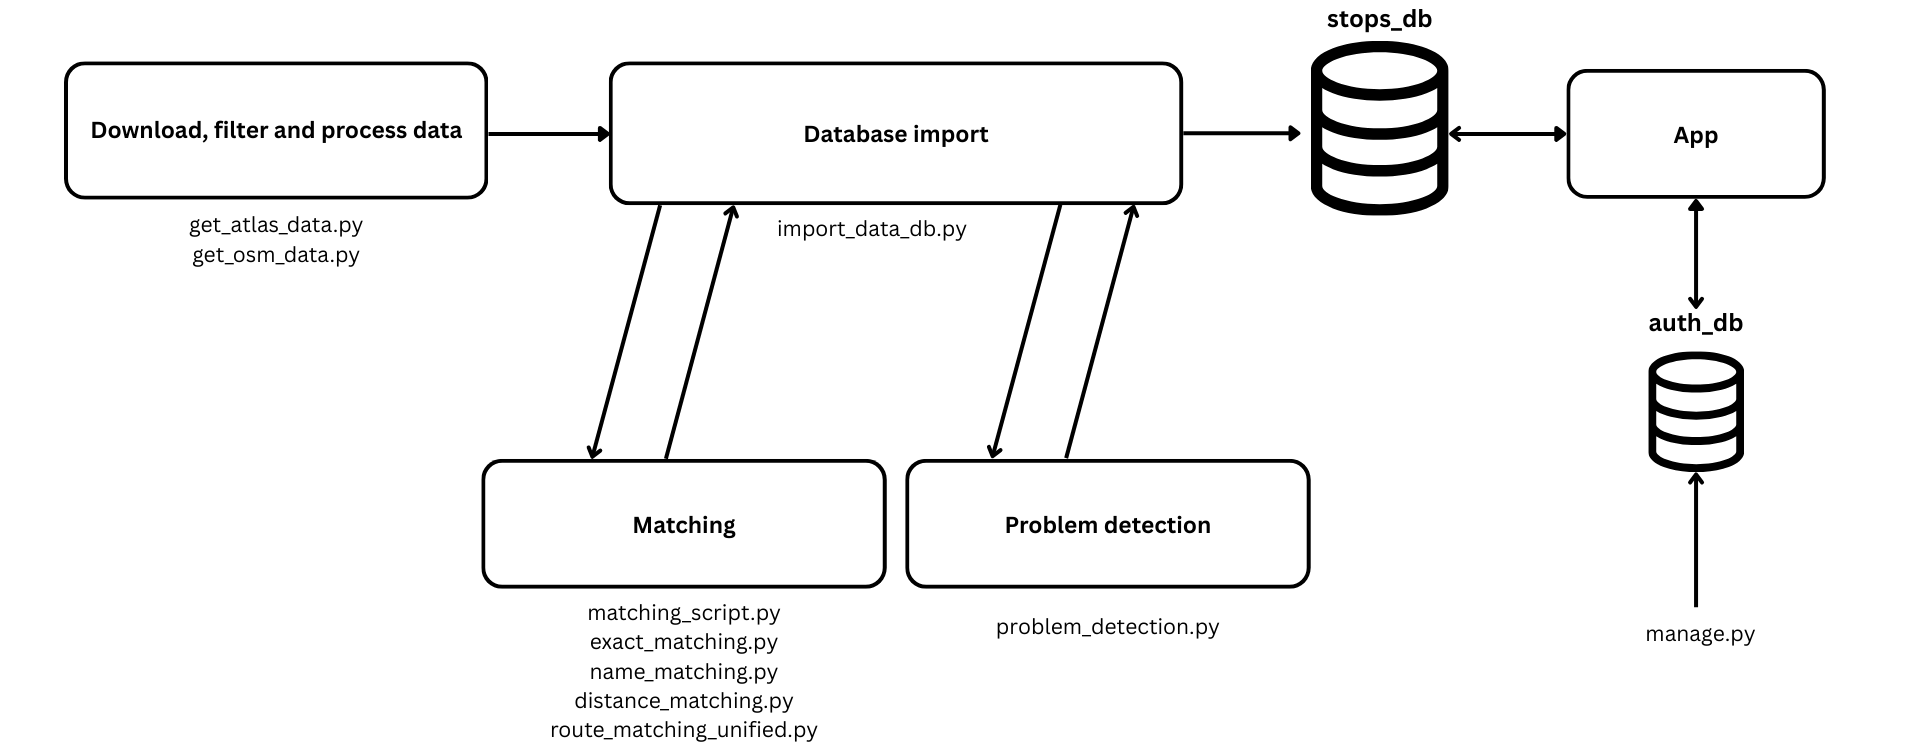
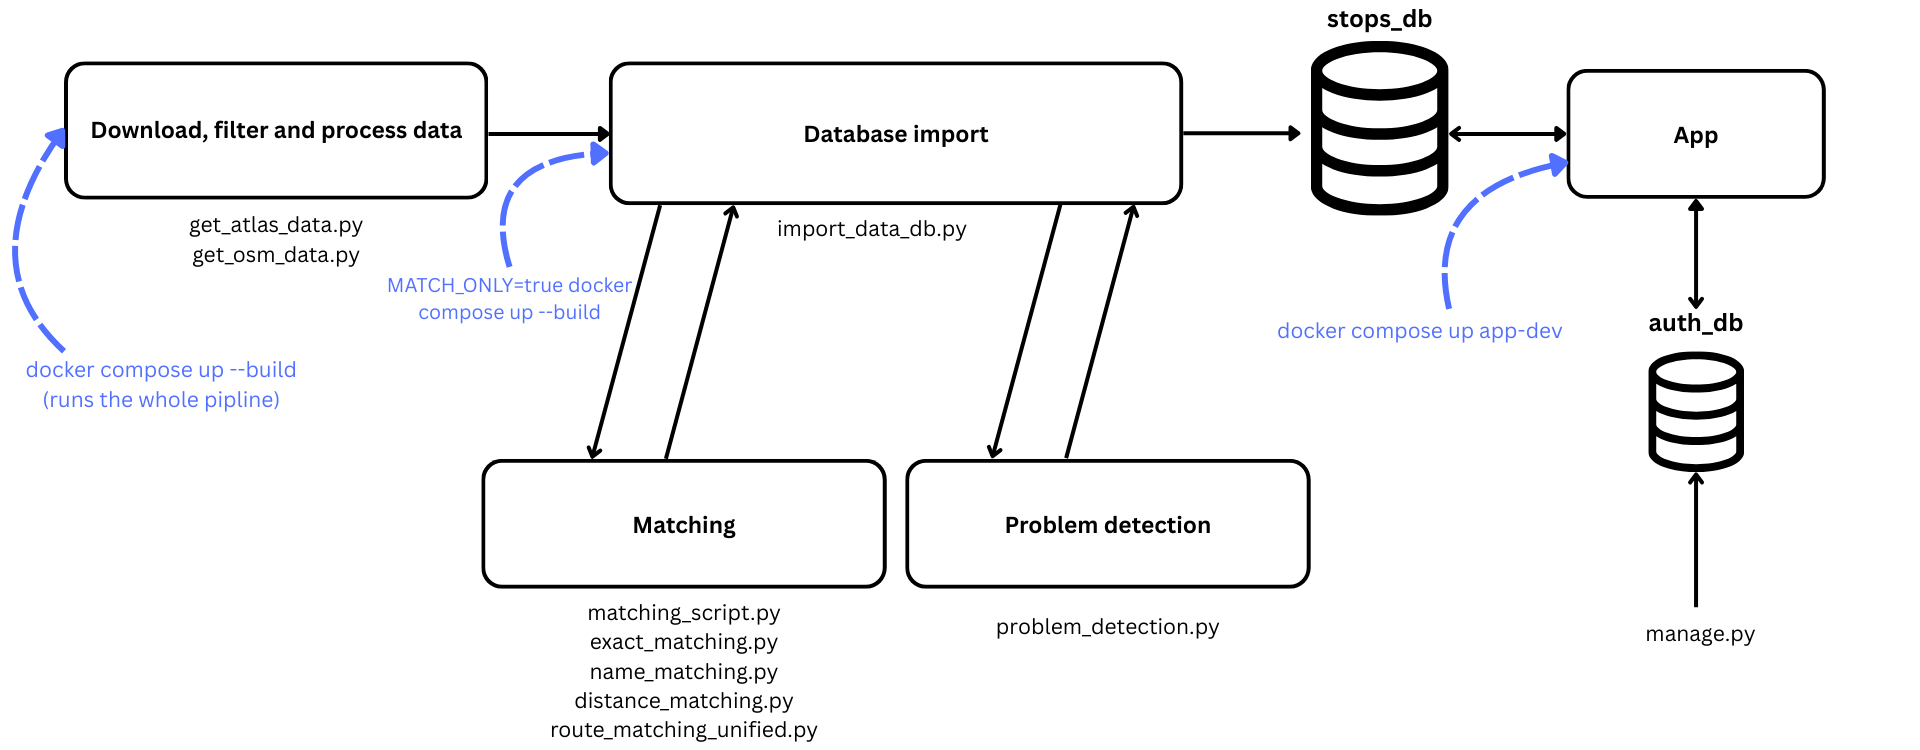
schema

diff --git a/get_atlas_data.py b/get_atlas_data.py
@@ -51,7 +51,7 @@ def _ensure_swiss_geojson_cache(geojson_path: str) -> None:
         raise RuntimeError(f"Failed to download Switzerland GeoJSON from {url}: {exc}")
 
 def _load_swiss_polygon():
-    """Load precise Switzerland polygon from cached GeoJSON (EPSG:4326).
+    """Load precise Switzerland polygon from cached GeoJSON.
 
     Returns shapely (Multi)Polygon. Raises if cache is missing or invalid.
     """
